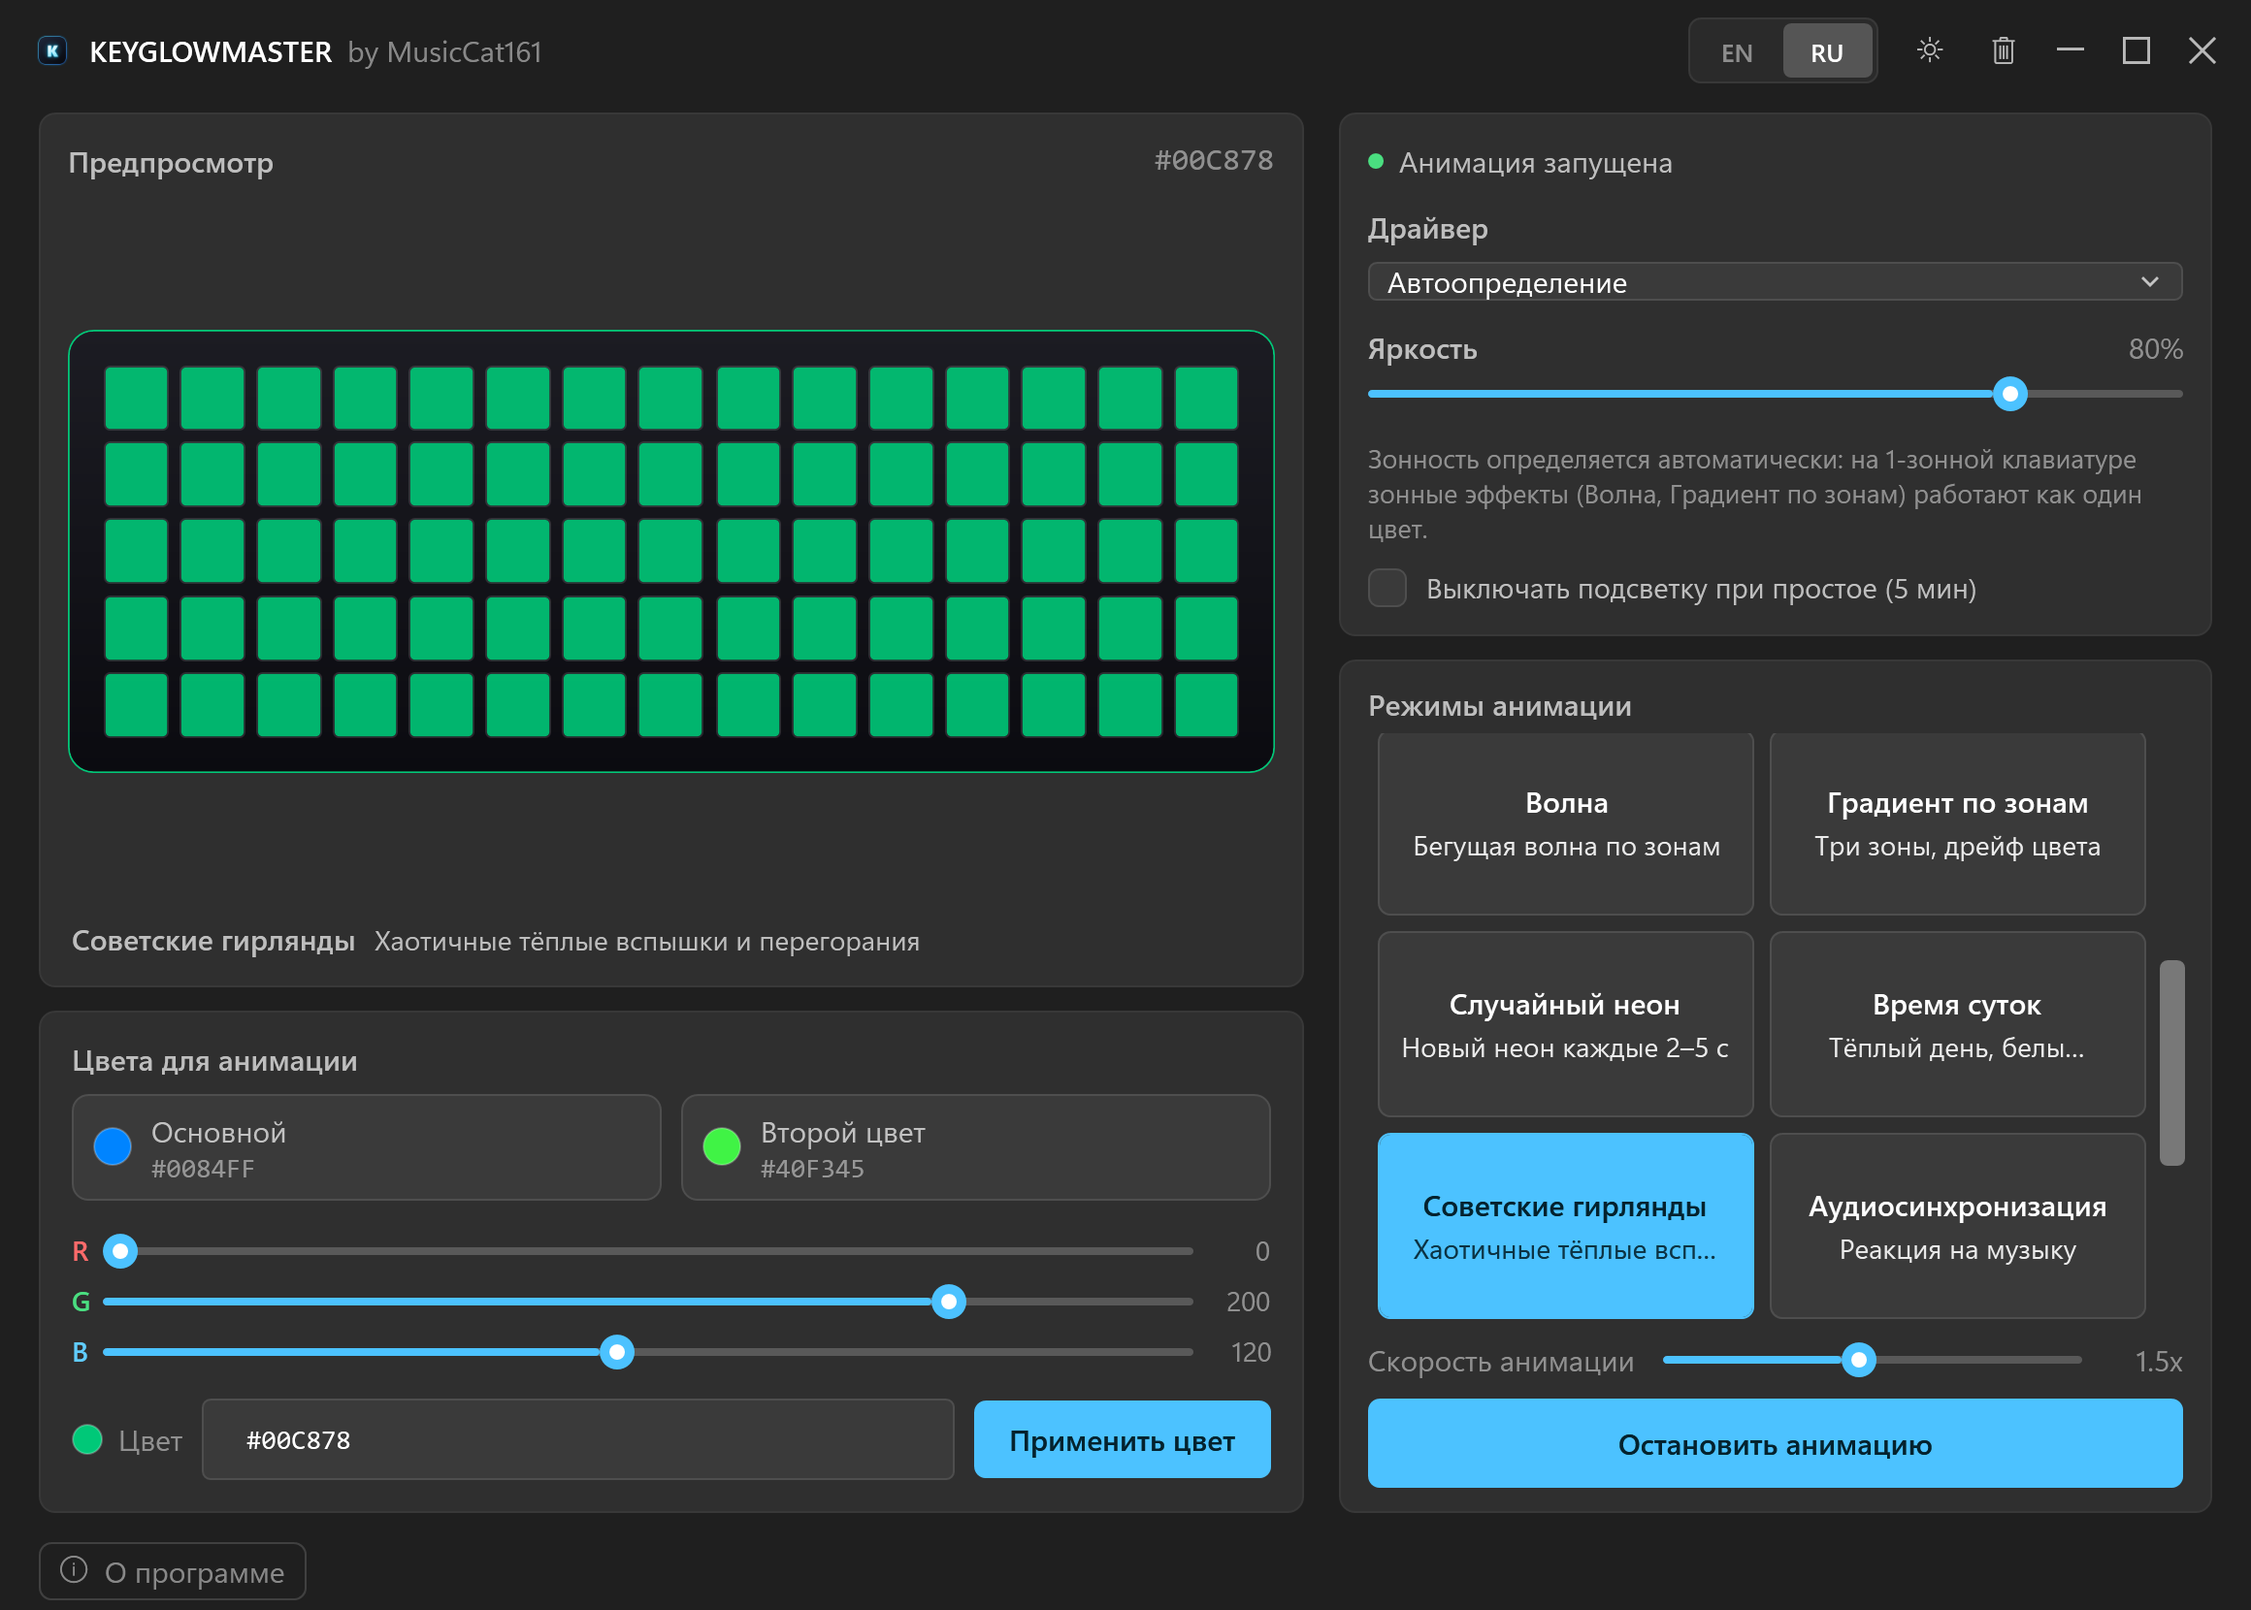
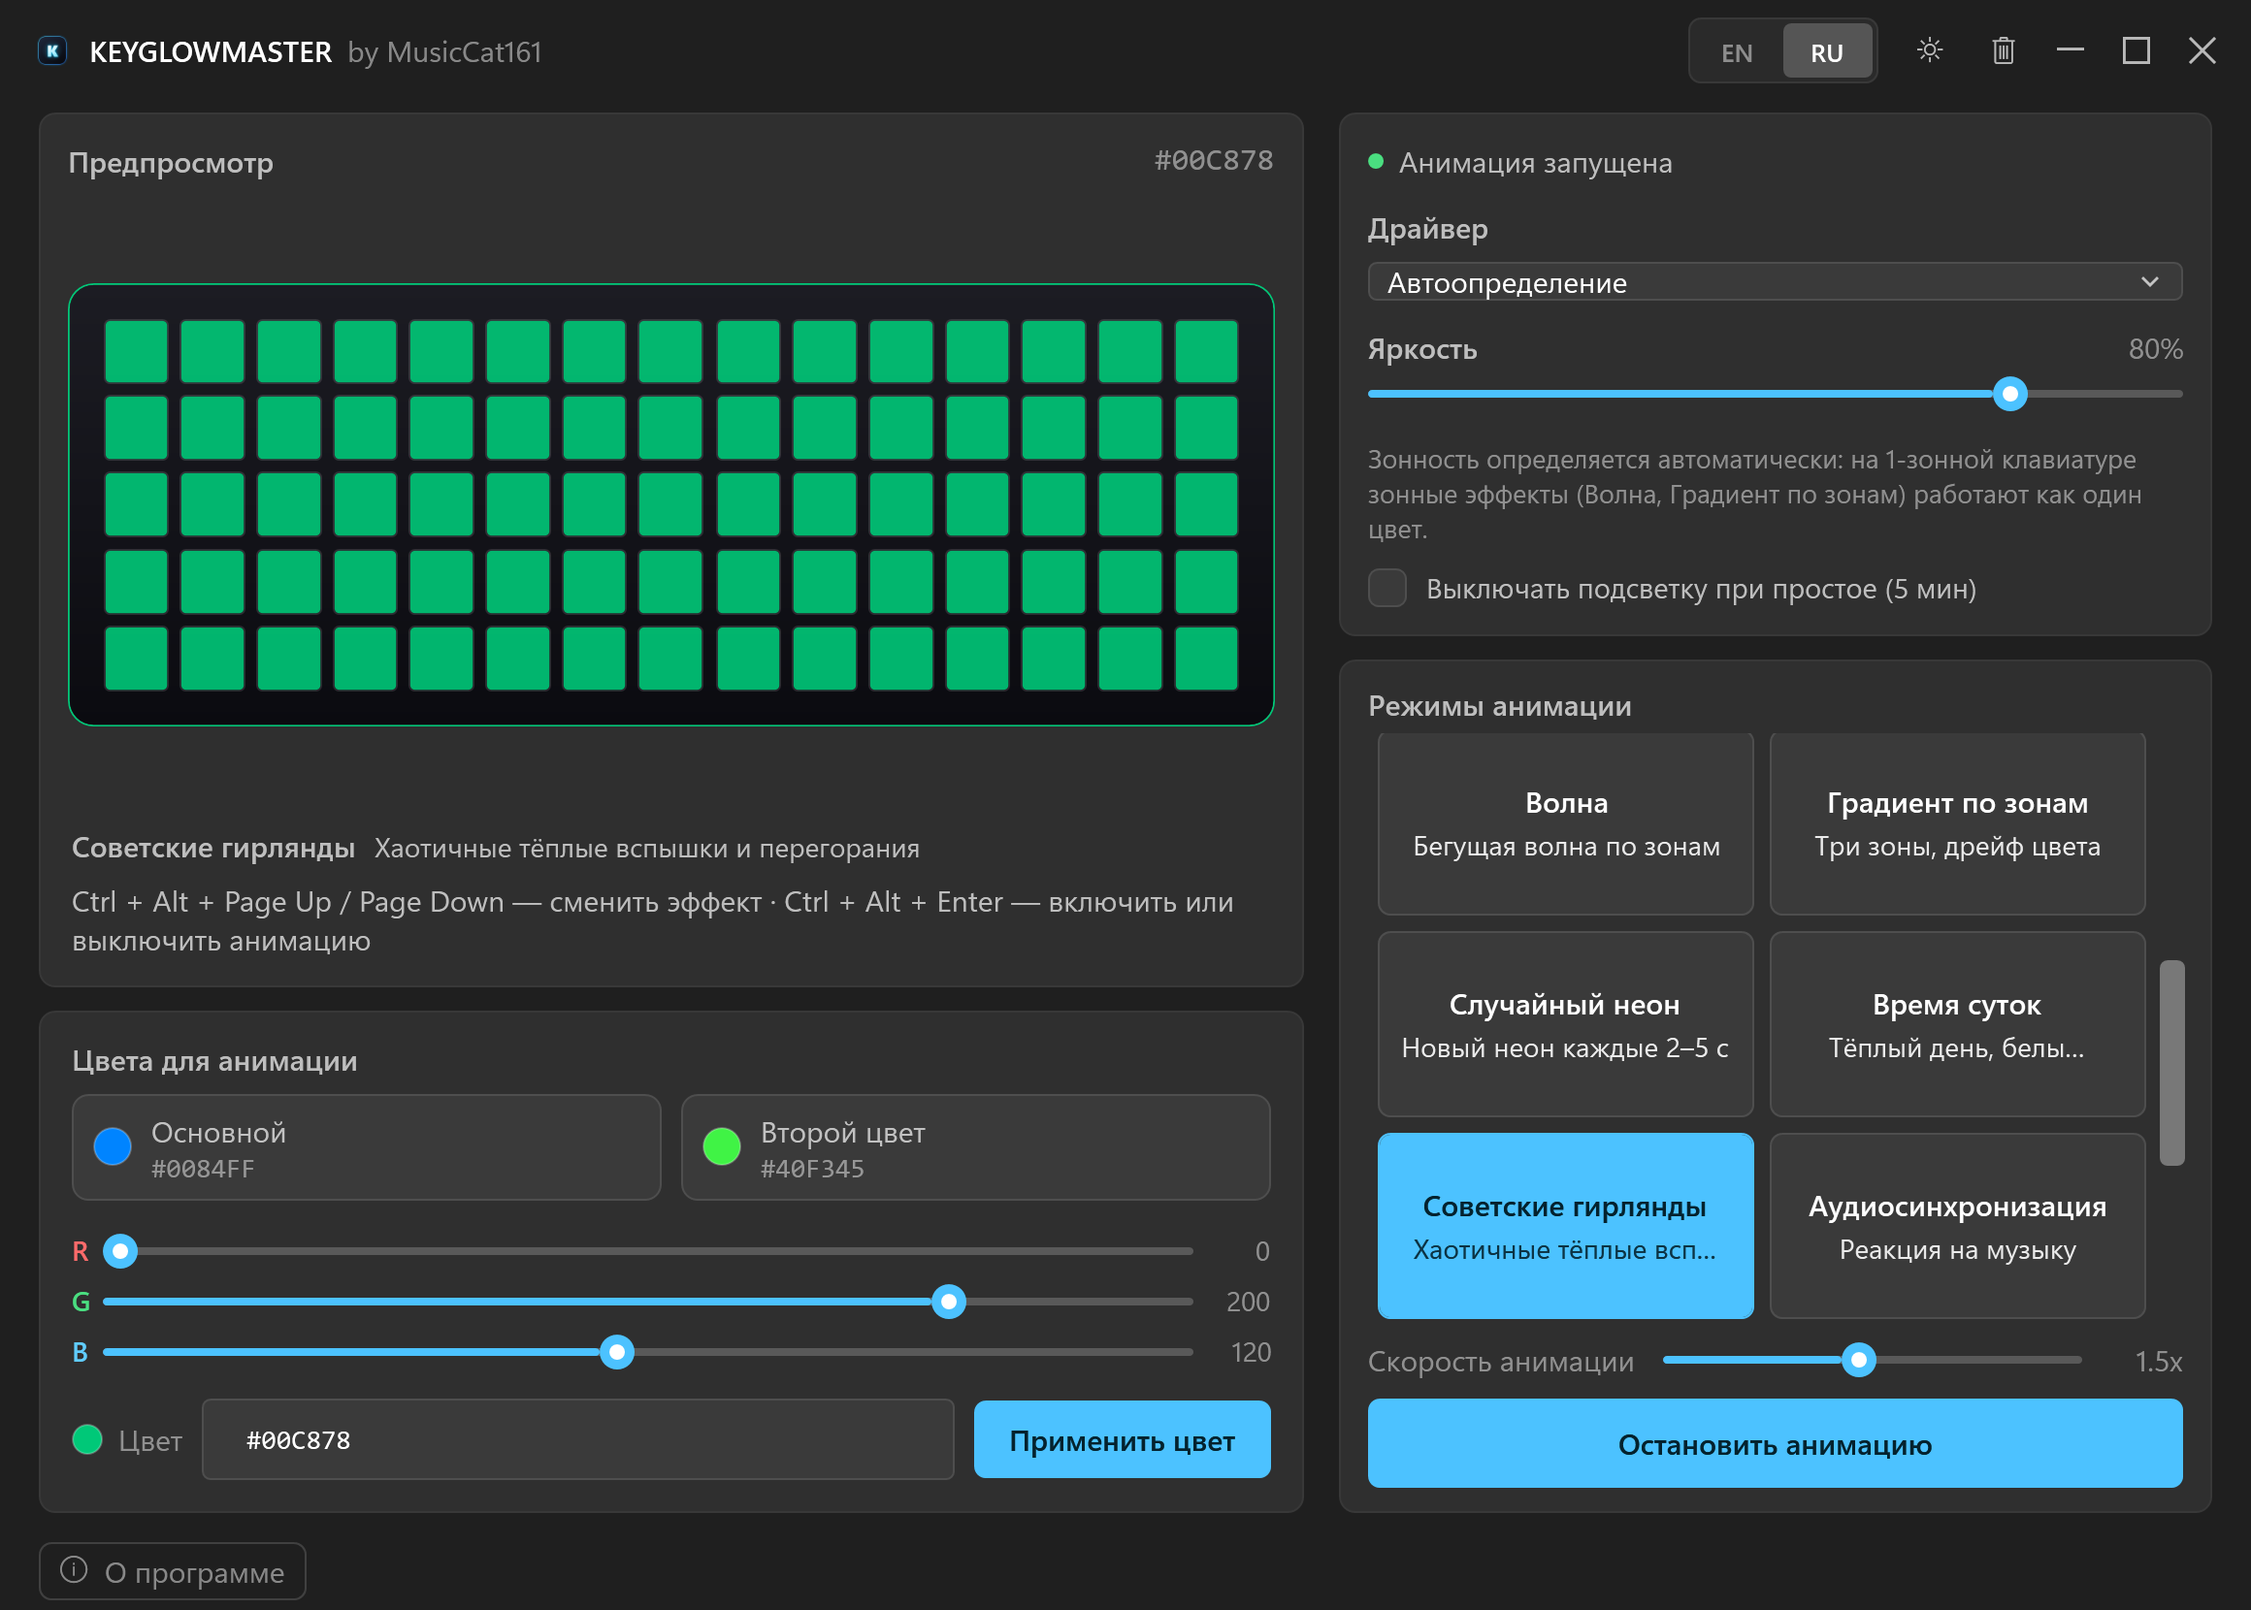
Show the hotkey cheat sheet under the keyboard preview (1.0.5.3)

Changed region(s): [[0.031, 0.1843, 0.5897, 0.4916], [0.031, 0.5223, 0.4345, 0.6145], [0.4655, 0.553, 0.5276, 0.5837]]

diff --git a/MusicCat.CLVKM.UI/MainWindow.xaml b/MusicCat.CLVKM.UI/MainWindow.xaml
@@ -140,6 +140,7 @@
                             <RowDefinition Height="Auto"/>
                             <RowDefinition Height="*"/>
                             <RowDefinition Height="Auto"/>
+                            <RowDefinition Height="Auto"/>
                         </Grid.RowDefinitions>
 
                         <DockPanel>
@@ -186,6 +187,11 @@
                             <TextBlock Text="{Binding SelectedAnimation.Description}" FontSize="14" Margin="10,1,0,0"
                                        Foreground="{DynamicResource TextSecondaryBrush}"/>
                         </StackPanel>
+
+                        <!-- Shortcut reminder, same size as the section label above -->
+                        <TextBlock Grid.Row="3" Text="{DynamicResource L_HotkeysHint}" FontSize="15"
+                                   Margin="2,8,0,0" TextWrapping="Wrap"
+                                   Foreground="{DynamicResource TextSecondaryBrush}"/>
                     </Grid>
                 </Border>
 

diff --git a/MusicCat.CLVKM.UI/Localization/Strings.ru.xaml b/MusicCat.CLVKM.UI/Localization/Strings.ru.xaml
@@ -35,6 +35,7 @@
     <sys:String x:Key="Desc_Garland">Хаотичные тёплые вспышки и перегорания</sys:String>
     <sys:String x:Key="L_SleepTimer">Выключать подсветку при простое (5 мин)</sys:String>
     <sys:String x:Key="L_Preview">Предпросмотр</sys:String>
+    <sys:String x:Key="L_HotkeysHint">Ctrl + Alt + Page Up / Page Down — сменить эффект · Ctrl + Alt + Enter — включить или выключить анимацию</sys:String>
 
     <!-- Status line -->
     <sys:String x:Key="St_Init">Инициализация…</sys:String>

diff --git a/MusicCat.CLVKM.UI/Localization/Strings.en.xaml b/MusicCat.CLVKM.UI/Localization/Strings.en.xaml
@@ -35,6 +35,7 @@
     <sys:String x:Key="Desc_Garland">Chaotic warm flashes and burn-outs</sys:String>
     <sys:String x:Key="L_SleepTimer">Turn off lighting when idle (5 min)</sys:String>
     <sys:String x:Key="L_Preview">Preview</sys:String>
+    <sys:String x:Key="L_HotkeysHint">Ctrl + Alt + Page Up / Page Down — switch the effect · Ctrl + Alt + Enter — start or stop the animation</sys:String>
 
     <!-- Status line -->
     <sys:String x:Key="St_Init">Initializing engine…</sys:String>

diff --git a/README.ru.md b/README.ru.md
@@ -4,7 +4,7 @@
 [![Download](https://img.shields.io/badge/download-KGMaster.exe-2ea44f?style=flat-square)](https://github.com/MusicCat-61/KeyGlowMaster/releases/latest/download/KGMaster.exe)
 [![CI](https://github.com/MusicCat-61/KeyGlowMaster/actions/workflows/ci.yml/badge.svg?branch=main)](https://github.com/MusicCat-61/KeyGlowMaster/actions/workflows/ci.yml)
 [![License](https://img.shields.io/badge/license-MIT-blue?style=flat-square)](LICENSE)
-[![Version](https://img.shields.io/badge/version-1.0.5.2-4CC2FF?style=flat-square)](https://github.com/MusicCat-61/KeyGlowMaster/releases/tag/v1.0.5.2)
+[![Version](https://img.shields.io/badge/version-1.0.5.3-4CC2FF?style=flat-square)](https://github.com/MusicCat-61/KeyGlowMaster/releases/tag/v1.0.5.3)
 [![Platform](https://img.shields.io/badge/platform-Windows%2010%20%7C%2011-0078D6?style=flat-square)](#)
 [![.NET](https://img.shields.io/badge/.NET-10-512BD4?style=flat-square)](https://dotnet.microsoft.com/download)
 
@@ -119,8 +119,8 @@ dotnet build MusicCat.CLVKM.slnx -c Release
 Пуш тега запускает сборку и публикацию: [workflow](.github/workflows/release.yml) собирает самодостаточный однофайловый `KGMaster.exe` под `win-x64` на `windows-latest`, проставляет ему версию из тега и прикрепляет исполняемый файл вместе с контрольной суммой SHA-256 к релизу с автоматически составленным списком изменений. Скачивание — около 75 МБ: при первом запуске бандл распаковывает среду выполнения в `%TEMP%\.net\KGMaster` и дальше переиспользует её.
 
 ```powershell
-git tag v1.0.5.2
-git push origin v1.0.5.2
+git tag v1.0.5.3
+git push origin v1.0.5.3
 ```
 
 Каждый пуш в `main` запускает [CI workflow](.github/workflows/ci.yml) — только сборку решения, без тега и релиза.

diff --git a/README.md b/README.md
@@ -4,7 +4,7 @@
 [![Download](https://img.shields.io/badge/download-KGMaster.exe-2ea44f?style=flat-square)](https://github.com/MusicCat-61/KeyGlowMaster/releases/latest/download/KGMaster.exe)
 [![CI](https://github.com/MusicCat-61/KeyGlowMaster/actions/workflows/ci.yml/badge.svg?branch=main)](https://github.com/MusicCat-61/KeyGlowMaster/actions/workflows/ci.yml)
 [![License](https://img.shields.io/badge/license-MIT-blue?style=flat-square)](LICENSE)
-[![Version](https://img.shields.io/badge/version-1.0.5.2-4CC2FF?style=flat-square)](https://github.com/MusicCat-61/KeyGlowMaster/releases/tag/v1.0.5.2)
+[![Version](https://img.shields.io/badge/version-1.0.5.3-4CC2FF?style=flat-square)](https://github.com/MusicCat-61/KeyGlowMaster/releases/tag/v1.0.5.3)
 [![Platform](https://img.shields.io/badge/platform-Windows%2010%20%7C%2011-0078D6?style=flat-square)](#)
 [![.NET](https://img.shields.io/badge/.NET-10-512BD4?style=flat-square)](https://dotnet.microsoft.com/download)
 
@@ -119,8 +119,8 @@ or run `publish.bat` to get a self-contained folder in `Build_Output`.
 Pushing a version tag builds and publishes the app — the [release workflow](.github/workflows/release.yml) publishes a self-contained single-file `KGMaster.exe` (win-x64) on `windows-latest`, stamps the tag into its file version and attaches the executable plus its SHA-256 checksum to a GitHub release with generated notes. The download is about 75 MB: on the first start the bundle unpacks its runtime into `%TEMP%\.net\KGMaster` and reuses it afterwards.
 
 ```powershell
-git tag v1.0.5.2
-git push origin v1.0.5.2
+git tag v1.0.5.3
+git push origin v1.0.5.3
 ```
 
 Every push to `main` runs the [CI workflow](.github/workflows/ci.yml), which only compiles the solution — no tag, no release.
